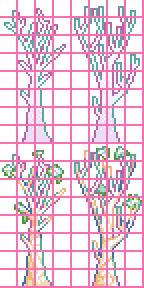
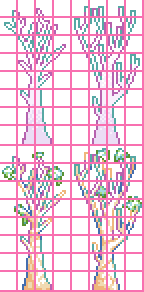
add + tile progress

Changed region(s): [[0.0, 0.5312, 1.0, 1.0], [0.0, 0.0312, 1.0, 0.5], [0.3333, 0.4688, 0.3611, 0.5]]

diff --git a/Content/NPCs/Mechanics/MoonLord/Attacks/ShimmerHungry.cs b/Content/NPCs/Mechanics/MoonLord/Attacks/ShimmerHungry.cs
@@ -1,0 +1,116 @@
+using NPCUtils;
+using System;
+using Terraria.Audio;
+using Terraria.DataStructures;
+using Terraria.GameContent.Bestiary;
+using Terraria.ID;
+
+namespace BossForgiveness.Content.NPCs.Mechanics.MoonLord.Attacks;
+
+internal class ShimmerHungry : ModNPC
+{
+    private ref float Timer => ref NPC.ai[0];
+
+    private Vector2 TargetPosition
+    {
+        get => new(NPC.ai[1], NPC.ai[2]);
+        set => (NPC.ai[1], NPC.ai[2]) = (value.X, value.Y);
+    }
+
+    private Player Target => Main.player[NPC.target];
+
+    public override void SetStaticDefaults() => Main.npcFrameCount[Type] = 2;
+
+    public override void SetDefaults()
+    {
+        NPC.CloneDefaults(NPCID.TheHungryII);
+        NPC.aiStyle = -1;
+        NPC.noTileCollide = true;
+        NPC.defense = 0;
+
+        AIType = NPCID.None;
+    }
+
+    public override void ApplyDifficultyAndPlayerScaling(int numPlayers, float balance, float bossAdjustment)
+    {
+        NPC.lifeMax = 500;
+        NPC.damage = 150;
+    }
+
+    public override void SetBestiary(BestiaryDatabase database, BestiaryEntry bestiaryEntry) => bestiaryEntry.AddInfo(this, "");
+
+    public override void FindFrame(int frameHeight)
+    {
+        NPC.frameCounter++;
+        NPC.frame.Y = frameHeight * ((int)(NPC.frameCounter * 0.1f) % 2);
+    }
+
+    public override void AI()
+    {
+        Timer++;
+
+        if (Timer < 5)
+            NPC.TargetClosest();
+
+        if (Timer < 30)
+        {
+            NPC.velocity = NPC.DirectionTo(Target.Center) * (Timer + 1) / 30f * 0.2f;
+        }
+        else
+        {
+            if (Timer < 90)
+                TargetPosition = Target.Center;
+
+            NPC.velocity = NPC.DirectionTo(TargetPosition) * (MathF.Min((Timer - 30) / 3f, 40) + 0.2f);
+
+            if (NPC.DistanceSQ(TargetPosition) < 45 * 45)
+            {
+                Point16 npcPos = NPC.position.ToTileCoordinates16();
+
+                if (Main.netMode != NetmodeID.MultiplayerClient)
+                {
+                    for (int i = npcPos.X - 1; i < npcPos.X + 3; ++i)
+                    {
+                        for (int j = npcPos.Y - 1; j < npcPos.Y + 3; ++j)
+                        {
+                            if (i == npcPos.X - 1 || i == npcPos.X + 2 || j == npcPos.Y - 1 || j == npcPos.Y + 2)
+                            {
+                                if (Main.rand.NextBool(2))
+                                    continue;
+                            }
+
+                            WorldGen.PlaceTile(i, j, TileID.ShimmerBlock, true, true);
+                        }
+                    }
+                }
+
+                if (Main.netMode == NetmodeID.Server)
+                    NetMessage.SendTileSquare(-1, npcPos.X, npcPos.Y, 2, 2);
+                else
+                {
+                    SoundEngine.PlaySound(SoundID.Shatter with { Volume = 0.5f, PitchRange = (-0.5f, 0) });
+                    SoundEngine.PlaySound(SoundID.Dig with { PitchRange = (-0.3f, 0.3f) });
+                }
+
+                NPC.active = false;
+                NPC.netUpdate = true;
+
+                for (int i = 0; i < 12; ++i)
+                    SpawnDust(2f);
+            }    
+        }
+
+        NPC.rotation = NPC.velocity.ToRotation() + MathHelper.Pi;
+
+        if (Main.rand.NextFloat() < NPC.velocity.Length() / 40f)
+            SpawnDust();
+    }
+
+    private void SpawnDust(float scale = 1f)
+    {
+        Dust dust = Main.dust[Dust.NewDust(NPC.position, NPC.width, NPC.height, !Main.rand.NextBool(3) ? DustID.ShimmerSplash : DustID.ShimmerTorch)];
+        dust.noGravity = true;
+        dust.scale = Main.rand.NextFloat(1.5f, 3f) * scale;
+        dust.velocity = Main.rand.NextVector2Circular(5, 5) * scale;
+    }
+}

diff --git a/Content/NPCs/Mechanics/PacificationTracker.cs b/Content/NPCs/Mechanics/PacificationTracker.cs
@@ -23,9 +23,11 @@ public class PacificationTracker : ModSystem
 
     public const int VanillaBossesForMoonLord = 16;
 
-    public readonly static HashSet<int> VanillaIdsForMoonLord = [NPCID.EyeofCthulhu, NPCID.EaterofWorldsHead, NPCID.KingSlime, NPCID.BrainofCthulhu, NPCID.Deerclops, NPCID.QueenBee, 
-        NPCID.SkeletronHead, NPCID.WallofFlesh, NPCID.QueenSlimeBoss, NPCID.SkeletronPrime, NPCID.TheDestroyer, NPCID.Retinazer, NPCID.Golem, NPCID.Plantera, NPCID.HallowBoss, 
-        NPCID.DukeFishron];
+    public readonly static HashSet<int> VanillaIdsForMoonLord = [NPCID.KingSlime, NPCID.EyeofCthulhu, NPCID.WallofFlesh, NPCID.SkeletronPrime, NPCID.CultistBoss];
+
+    //public readonly static HashSet<int> VanillaIdsForMoonLord = [NPCID.EyeofCthulhu, NPCID.EaterofWorldsHead, NPCID.KingSlime, NPCID.BrainofCthulhu, NPCID.Deerclops, NPCID.QueenBee, 
+    //    NPCID.SkeletronHead, NPCID.WallofFlesh, NPCID.QueenSlimeBoss, NPCID.SkeletronPrime, NPCID.TheDestroyer, NPCID.Retinazer, NPCID.Golem, NPCID.Plantera, NPCID.HallowBoss, 
+    //    NPCID.DukeFishron];
 
     /// <summary>
     /// % of bosses pacified out of the vanilla 17 (non-event, non-Moon Lord, and BoC/Eow combined into one) bosses.

diff --git a/Content/Tiles/Vanilla/MoonLord/PeaceTree.cs b/Content/Tiles/Vanilla/MoonLord/PeaceTree.cs
@@ -1,0 +1,29 @@
+using Terraria.ID;
+using Terraria.ObjectData;
+
+namespace BossForgiveness.Content.Tiles.Vanilla.MoonLord;
+
+internal class PeaceTree : ModTile
+{
+    public override void SetStaticDefaults()
+    {
+        TileID.Sets.CanBeClearedDuringGeneration[Type] = false;
+        TileID.Sets.CanBeClearedDuringOreRunner[Type] = false;
+
+        Main.tileFrameImportant[Type] = true;
+
+        TileObjectData.newTile.CopyFrom(TileObjectData.Style2x2);
+        TileObjectData.newTile.Width = 4;
+        TileObjectData.newTile.Height = 8;
+        TileObjectData.newTile.CoordinateHeights = [16, 16, 16, 16, 16, 16, 16, 18];
+        TileObjectData.newTile.LavaDeath = false;
+        TileObjectData.newTile.StyleHorizontal = true;
+        TileObjectData.newTile.RandomStyleRange = 2;
+        TileObjectData.newTile.StyleWrapLimit = 2;
+        TileObjectData.addTile(Type);
+
+        AddMapEntry(new Color(235, 221, 245));
+        
+        DustType = DustID.WhiteTorch;
+    }
+}

diff --git a/Content/NPCs/Mechanics/MoonLord/MoonLordAttacksNPC.cs b/Content/NPCs/Mechanics/MoonLord/MoonLordAttacksNPC.cs
@@ -83,7 +83,7 @@ internal class MoonLordPacificationNPC : GlobalNPC
 {
     public override bool InstancePerEntity => true;
 
-    public float Progress => PacifiedBosses.Count / (float)PacificationTracker.VanillaBossesForMoonLord;
+    public float Progress => PacifiedBosses.Count / (float)PacificationTracker.VanillaIdsForMoonLord.Count;
 
     public readonly HashSet<int> PacifiedBosses = [];
 

diff --git a/Content/NPCs/Mechanics/MoonLord/BossUILayer.cs b/Content/NPCs/Mechanics/MoonLord/BossUILayer.cs
@@ -100,6 +100,9 @@ internal class BossUILayer : ModSystem
 
         foreach (var pair in sorted)
         {
+            if (!PacificationTracker.VanillaIdsForMoonLord.Contains(pair.Key))
+                continue;
+
             bool hasPac = PacificationTracker.HasBoss(pair.Key);
 
             if (pair.Value.CanDisplay is not null && !pair.Value.CanDisplay.Invoke(ref hasPac))

diff --git a/Content/Items/ForVanilla/CobaltOrb.cs b/Content/Items/ForVanilla/CobaltOrb.cs
@@ -1,11 +1,8 @@
 using BossForgiveness.Content.NPCs.Mechanics.Mech;
-using Microsoft.Xna.Framework;
 using Microsoft.Xna.Framework.Graphics;
 using ReLogic.Content;
 using System;
-using Terraria;
 using Terraria.ID;
-using Terraria.ModLoader;
 
 namespace BossForgiveness.Content.Items.ForVanilla;
 
